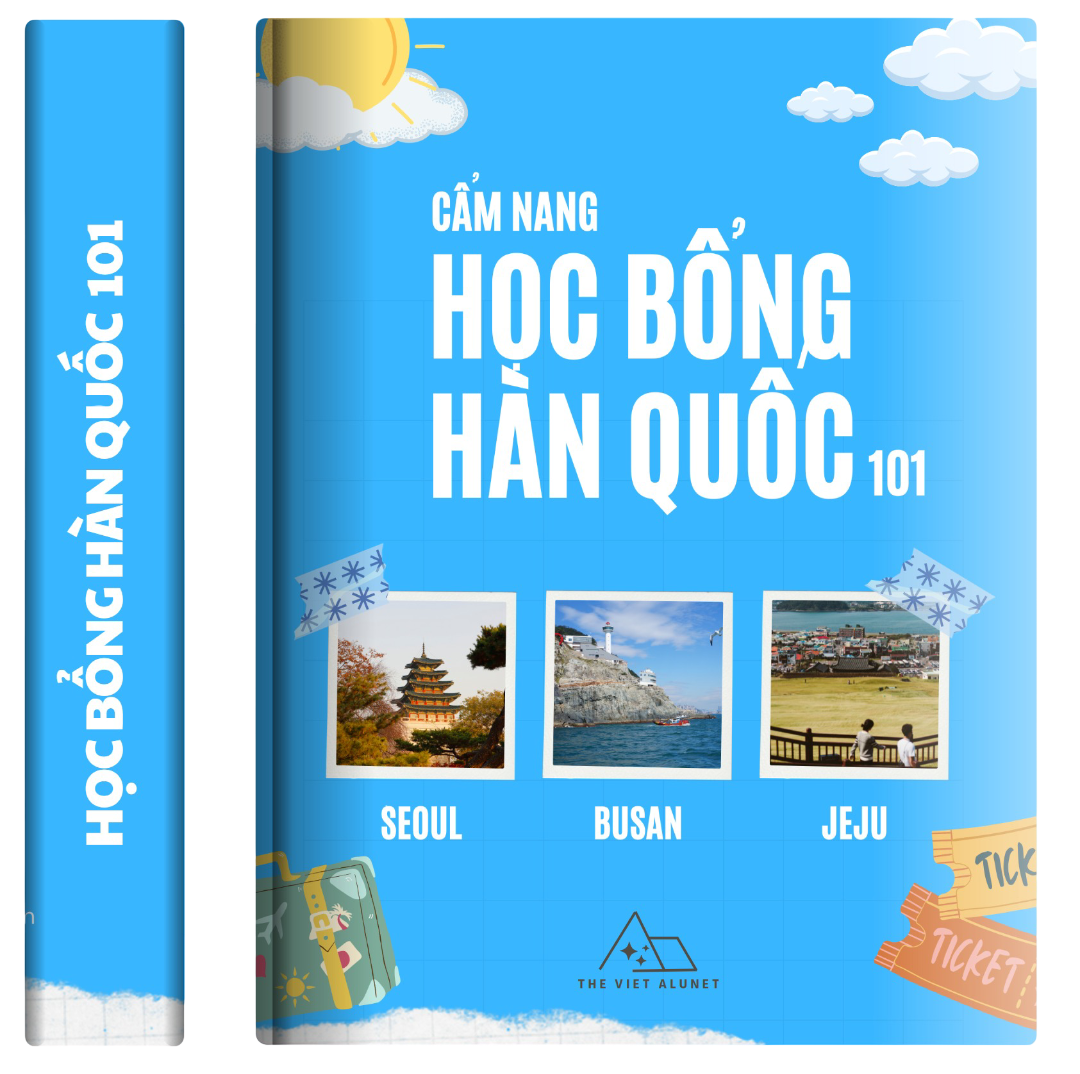
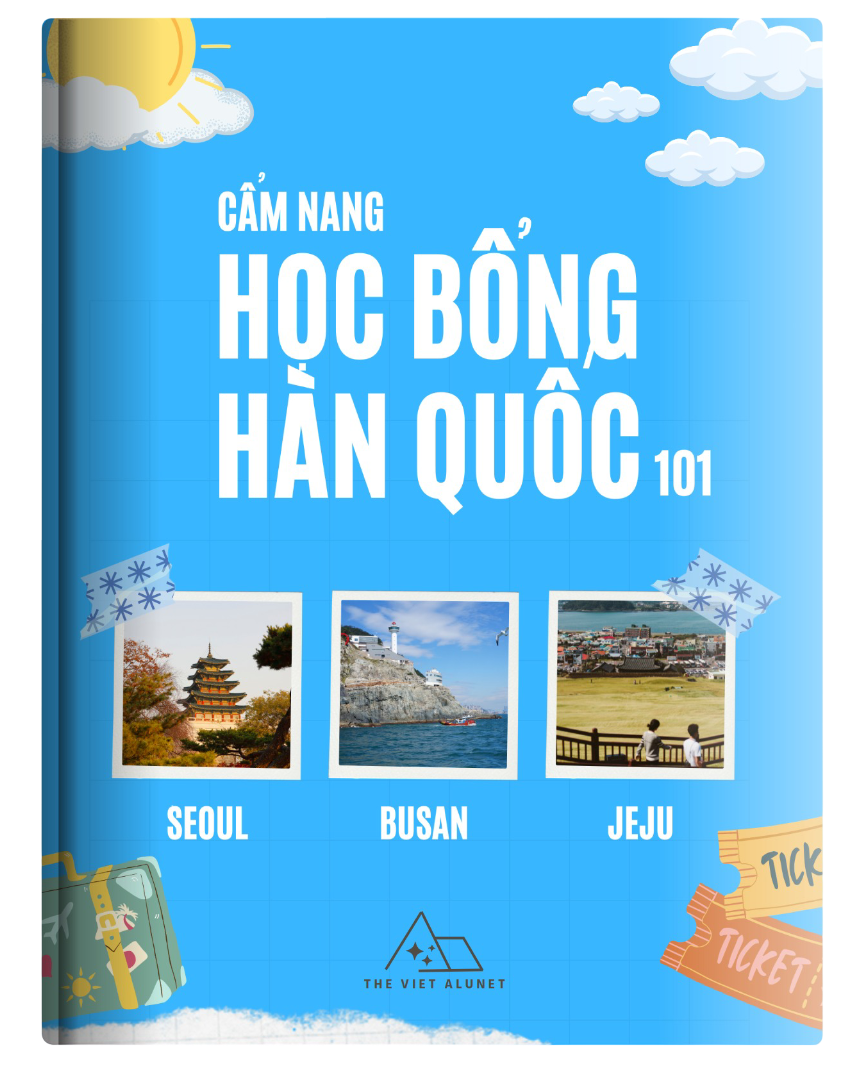
Update documentation

diff --git a/intro.html b/intro.html
@@ -390,6 +390,9 @@ document.write(`
 <section id="chao-mung-ban">
 <h2>Chào mừng bạn!<a class="headerlink" href="#chao-mung-ban" title="Link to this heading">#</a></h2>
 <p><em>Học bổng Hàn Quốc 101</em> là dự án được khởi xướng bởi <strong>The Viet Alunet</strong>, một cộng đồng những học giả, nghiên cứu sinh Việt Nam đang học tập và làm việc tại Hàn Quốc. Với tinh thần <strong>pay-it-forward</strong>, chúng tôi mong muốn chia sẻ kinh nghiệm và kiến thức để hỗ trợ thế hệ trẻ Việt Nam chinh phục các cơ hội học bổng tại Hàn Quốc.</p>
+<p align="center">
+  <img src="https://raw.githubusercontent.com/hocbonghanquoc101/hocbonghanquoc101.github.io/refs/heads/20250629/assets/img/home1-img.png" alt="Học bổng Hàn Quốc 101" width="400">
+</p>
 </section>
 <section id="muc-tieu-cua-cuon-sach">
 <h2>Mục tiêu của cuốn sách<a class="headerlink" href="#muc-tieu-cua-cuon-sach" title="Link to this heading">#</a></h2>

diff --git a/_sources/intro.md b/_sources/intro.md
@@ -4,6 +4,10 @@
 
 *Học bổng Hàn Quốc 101* là dự án được khởi xướng bởi **The Viet Alunet**, một cộng đồng những học giả, nghiên cứu sinh Việt Nam đang học tập và làm việc tại Hàn Quốc. Với tinh thần **pay-it-forward**, chúng tôi mong muốn chia sẻ kinh nghiệm và kiến thức để hỗ trợ thế hệ trẻ Việt Nam chinh phục các cơ hội học bổng tại Hàn Quốc.
 
+<p align="center">
+  <img src="https://raw.githubusercontent.com/hocbonghanquoc101/hocbonghanquoc101.github.io/refs/heads/20250629/assets/img/home1-img.png" alt="Học bổng Hàn Quốc 101" width="400">
+</p>
+
 ## Mục tiêu của cuốn sách
 
 Cuốn sách này được thiết kế để:
